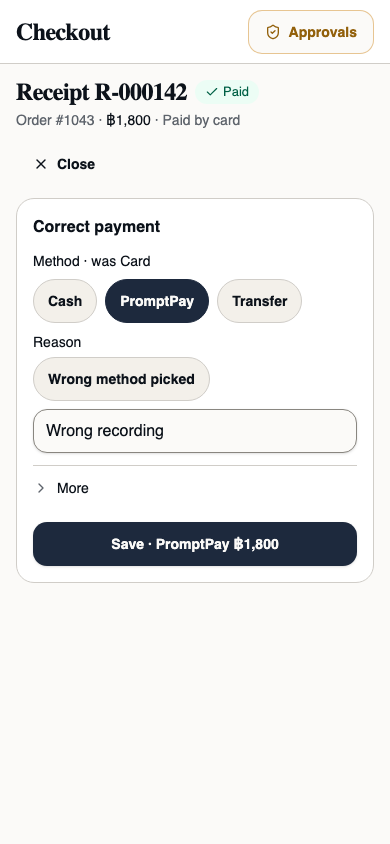
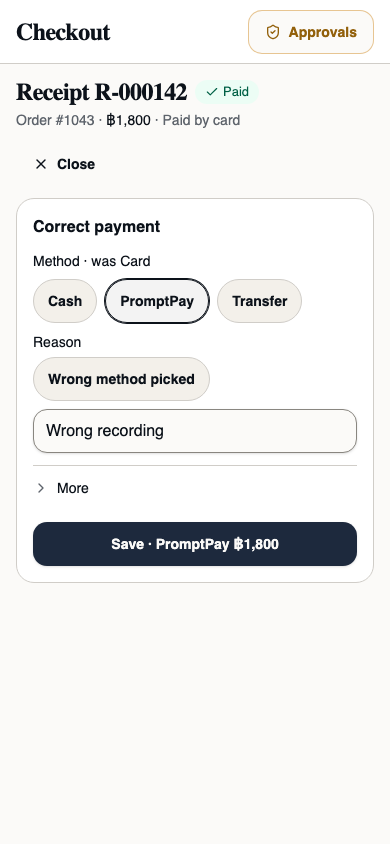
Correct payment method chips use the quiet pressed style; coupon trigger text wraps at large text sizes

Changed region(s): [[0.2462, 0.3081, 0.5538, 0.4005]]

diff --git a/src/components/checkout/PaymentRecord.tsx b/src/components/checkout/PaymentRecord.tsx
@@ -295,7 +295,7 @@ export function CorrectPayment({ view, onDone, onBusyChange, onDraftChange }: Ta
                     onClick={() => setRow(0, { method: pressed ? recorded : method })}
                     className={cn(
                       "inline-flex min-h-10 items-center rounded-full border px-3.5 text-sm font-semibold whitespace-nowrap transition-colors focus-visible:outline-none focus-visible:ring-2 focus-visible:ring-ring focus-visible:ring-offset-2 focus-visible:ring-offset-background disabled:pointer-events-none disabled:opacity-45",
-                      pressed ? "border-primary bg-primary text-primary-foreground" : "border-border bg-muted text-foreground hover:border-input",
+                      pressed ? "border-foreground bg-foreground/5 text-foreground ring-1 ring-foreground" : "border-border bg-muted text-foreground hover:border-input",
                     )}
                   >
                     {TENDER_LABELS[method].short}

diff --git a/src/components/checkout/OrderCoupon.tsx b/src/components/checkout/OrderCoupon.tsx
@@ -117,8 +117,7 @@ export function OrderCoupon({ view, run, busy, open, onOpenChange: setOpen, hide
         className={cn("mb-2 flex min-h-10 w-full items-center gap-2 rounded-lg border border-dashed border-border px-3 py-1.5 text-left text-sm font-medium text-muted-foreground transition hover:border-gold/70 hover:text-foreground focus-visible:ring-2 focus-visible:ring-ring focus-visible:outline-none", SHORT_SCREEN_HIDDEN)}
       >
         <TicketPercent aria-hidden className="size-4 shrink-0 text-gold-text" />
-        <span className="min-w-0 flex-1">Add coupon</span>
-        <span className="shrink-0 text-xs font-normal">Code, QR or link</span>
+        <span className="flex min-w-0 flex-1 flex-wrap items-baseline justify-between gap-x-2"><span>Add coupon</span><span className="text-xs font-normal">Code, QR or link</span></span>
         <ChevronRight aria-hidden className="size-4 shrink-0" />
       </button>
     );
